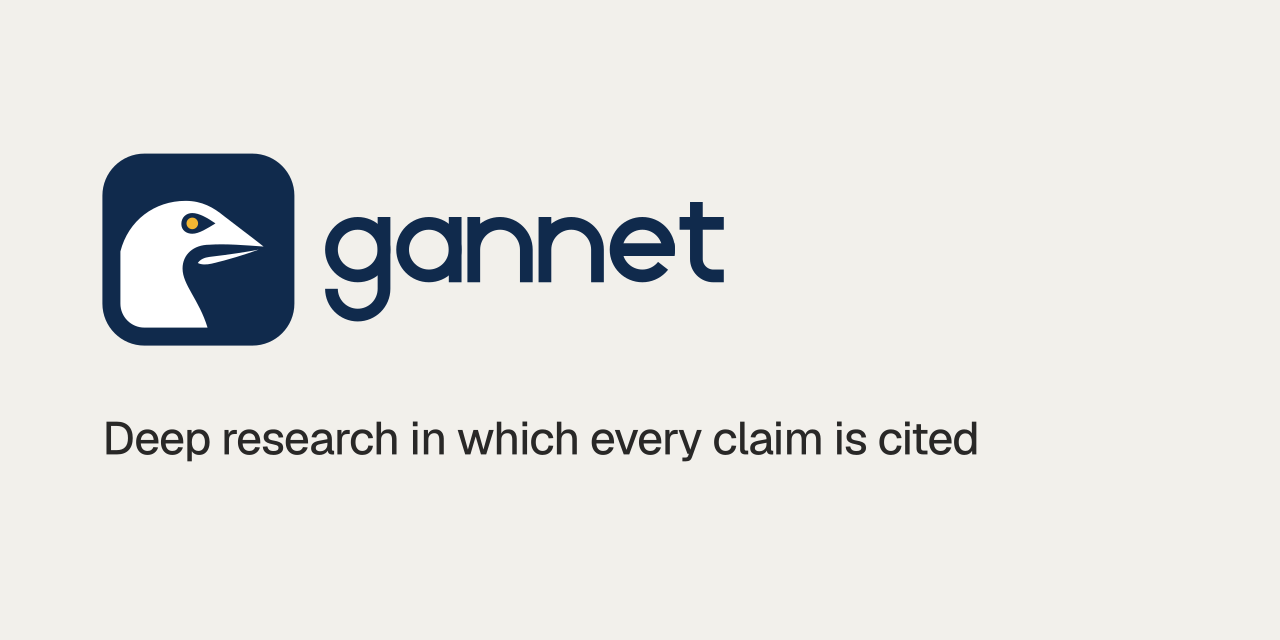
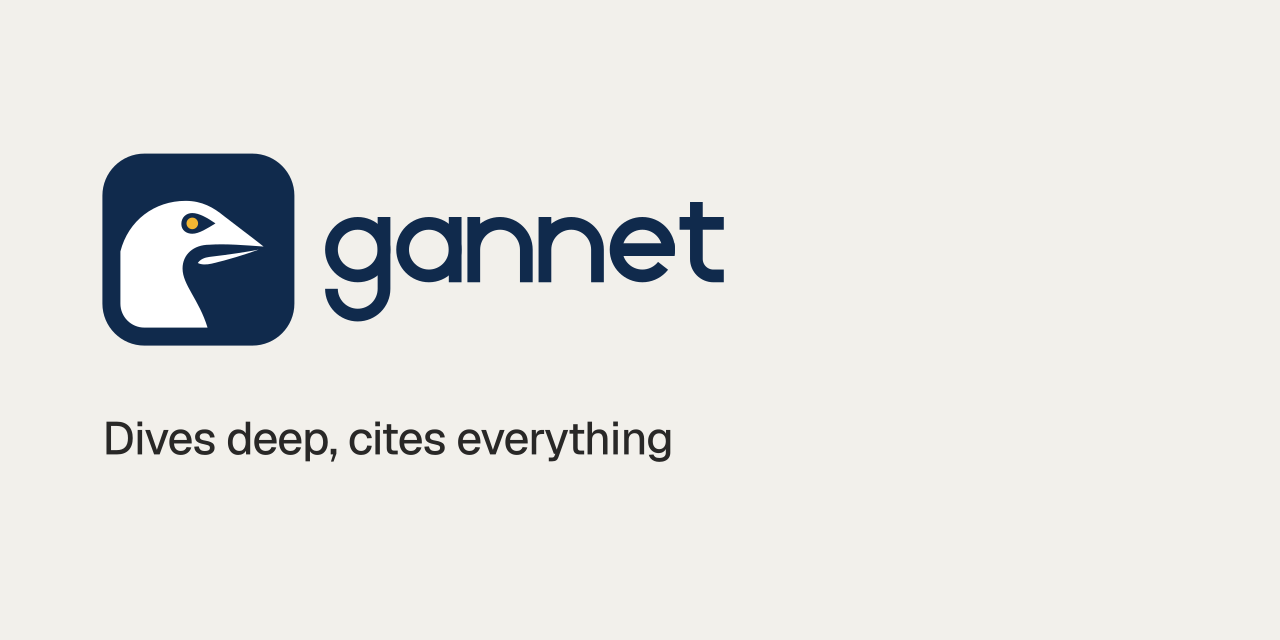
fix(brand): the strapline is "Dives deep, cites everything" (#20)

Changed region(s): [[0.0938, 0.6562, 0.7812, 0.7188]]

diff --git a/site/src/lib/site.ts b/site/src/lib/site.ts
@@ -36,7 +36,7 @@ export const REPO = "https://github.com/dbhq-uk/gannet";
 export const site = {
   url: "https://gannet.dbhq.uk",
   name: "Gannet",
-  tagline: "Deep research in which every claim is cited",
+  tagline: "Dives deep, cites everything",
   lead:
     "Gannet is an open-source deep research agent being built in C# by DBHQ. It is designed to take a question, plan the research, search the web, weigh each source and write a report in which every claim is cited to a page it actually read.",
   // The sibling cross-link block in the footer. One-way on purpose (Dan, 21 Oct

diff --git a/assets/_gen/logo.py b/assets/_gen/logo.py
@@ -222,7 +222,7 @@ def lockup(word=NAVY, ground=None, pad=0):
 
 CANVAS = "#F2F0EB"
 CHARCOAL = "#292827"
-CARD_LINE = "Deep research in which every claim is cited"
+CARD_LINE = "Dives deep, cites everything"  # Dan, 22 Oct 2026
 
 
 def card(width, height):
